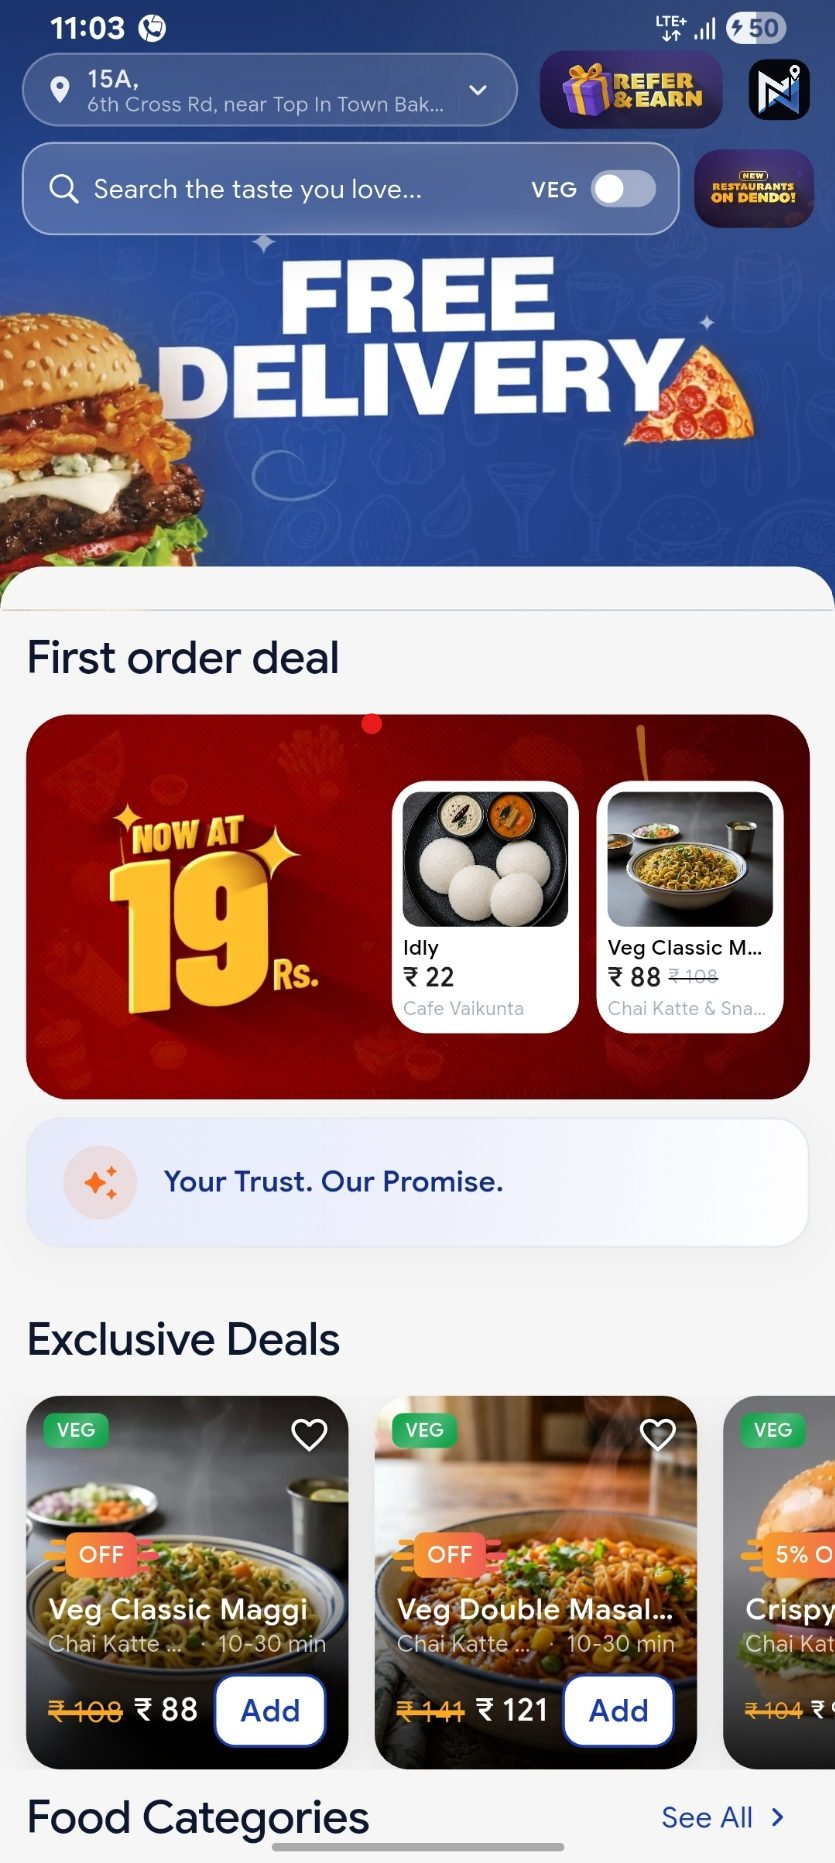
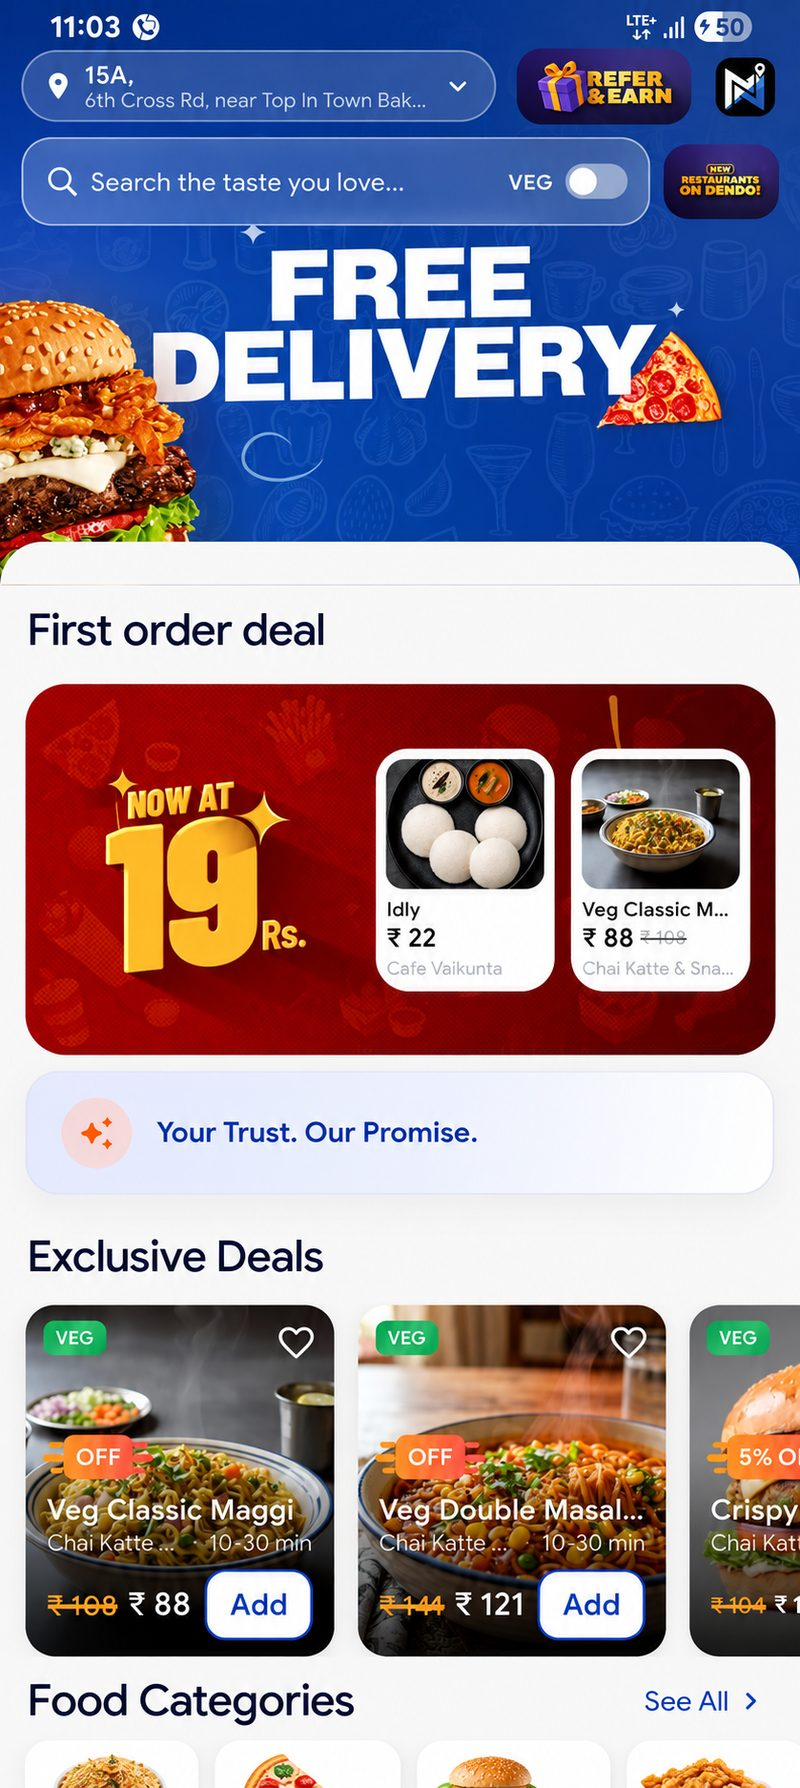
Add the live order tracking screenshot
Three real app screens now: home, live order tracking on a map, and
cart/payment. Tracking is the one worth having — it shows the map
routing rather than just describing it.

Converted to JPEG at 800px wide: 3.8MB of PNG down to 467KB.

diff --git a/src/components/Dendo.jsx b/src/components/Dendo.jsx
@@ -85,8 +85,10 @@ function Dendo() {
               <figure
                 key={shot.src}
                 className={[
-                  'w-1/2 max-w-[12.5rem] rounded-[1.6rem] border border-rule bg-white p-1.5 shadow-lift transition-transform duration-300 hover:-translate-y-1.5',
-                  i === 0 ? '-rotate-2 md:mb-8' : 'rotate-2',
+                  'w-1/3 max-w-[11rem] rounded-[1.6rem] border border-rule bg-white p-1.5 shadow-lift transition-transform duration-300 hover:-translate-y-1.5',
+                  i === 0 ? '-rotate-3 md:mb-8' : '',
+                  i === shots.length - 1 ? 'rotate-3 md:mb-8' : '',
+                  i > 0 && i < shots.length - 1 ? 'z-10' : '',
                 ].join(' ')}
               >
                 <Shot

diff --git a/src/data/content.js b/src/data/content.js
@@ -38,6 +38,7 @@ export const feature = {
   // Real screenshots from the shipped app.
   shots: [
     { src: "/dendo-1.jpg", label: "Home" },
+    { src: "/dendo-2.jpg", label: "Live order tracking" },
     { src: "/dendo-3.jpg", label: "Cart and payment" },
   ],
   links: [
